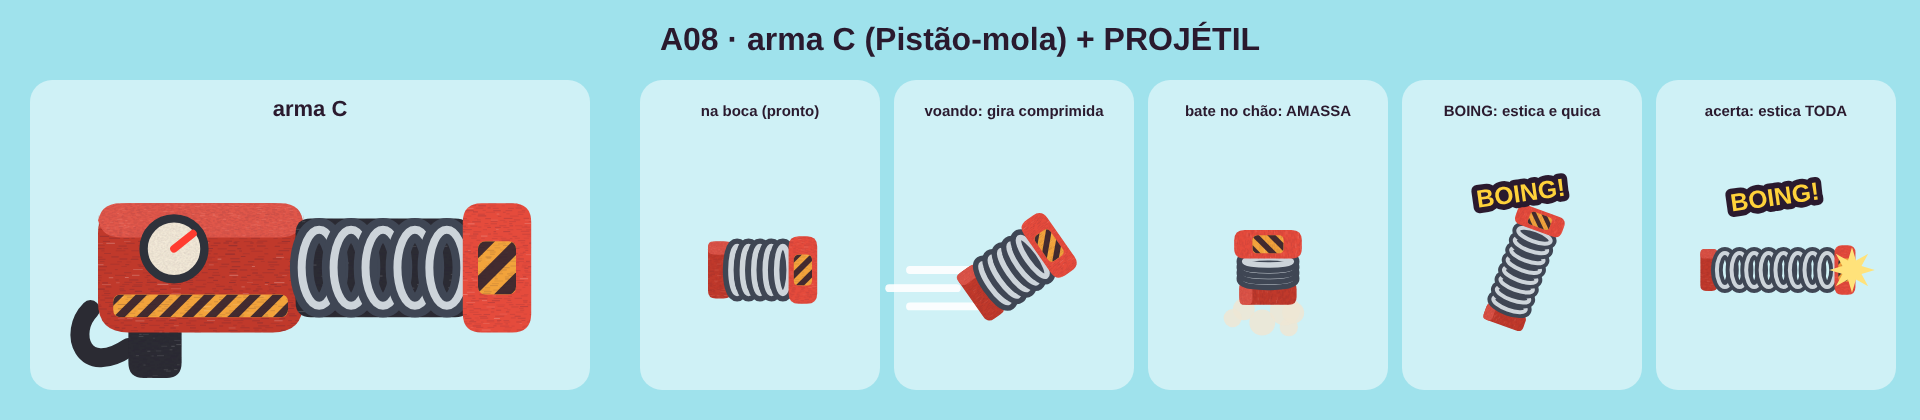
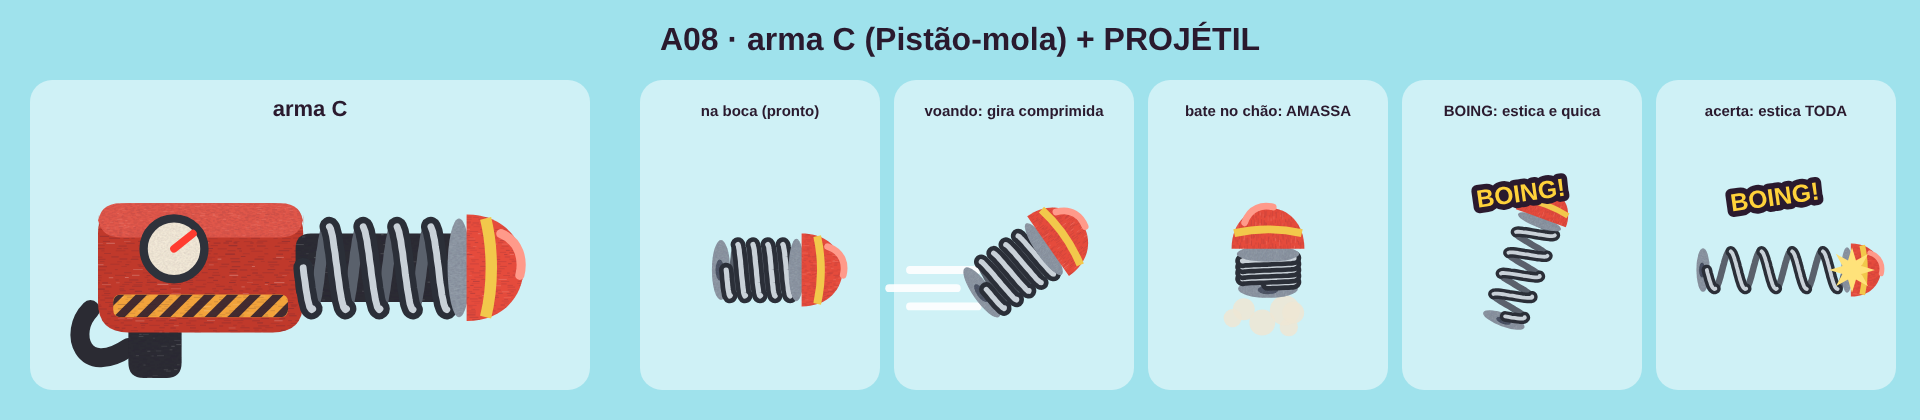
A08: mola em espiral contínua com arruela e batente de borracha; arma C com a mesma mola e o batente na boca
Claude-Session: https://claude.ai/code/session_017desNJLabnbh98EwrZ9vQj

diff --git a/art/src/robos/eng_ataques.py b/art/src/robos/eng_ataques.py
@@ -456,13 +456,44 @@ def canhao_molas_jogo():
     return o
 
 
+def helice(x0, x1, ry, voltas, w=3.4):
+    """Mola de verdade: UM fio em espiral (hélice vista de lado), desenhado por meias-voltas contínuas: as de trás
+    escuras e finas, as da frente com contorno escuro e brilho de aço."""
+    n = max(60, int(voltas * 36))
+    pts = [(x0 + (x1 - x0) * i / n, ry * math.sin(i / n * voltas * 2 * math.pi), math.cos(i / n * voltas * 2 * math.pi)) for i in range(n + 1)]
+    runs, cur, front = [], [pts[0]], pts[0][2] >= 0
+    for p_ in pts[1:]:
+        f = p_[2] >= 0
+        cur.append(p_)
+        if f != front:
+            runs.append((front, cur))
+            cur, front = [p_], f
+    runs.append((front, cur))
+    tras, frente = "", ""
+    for f, run in runs:
+        d = "M" + " L".join(f"{x:.1f},{y:.1f}" for x, y, _ in run)
+        if f:
+            frente += f'<path d="{d}" stroke="#2b2f38" stroke-width="{w + 2.2:.1f}" fill="none" stroke-linecap="round" stroke-linejoin="round"/>'
+            frente += f'<path d="{d}" stroke="#c9d1d8" stroke-width="{w * 0.6:.1f}" fill="none" stroke-linecap="round" stroke-linejoin="round"/>'
+        else:
+            tras += f'<path d="{d}" stroke="#5a616c" stroke-width="{w:.1f}" fill="none" stroke-linecap="round" stroke-linejoin="round"/>'
+    return tras, frente
+
+
 def mola(x, y, ang=0.0, compr=1.0, s=1.0):
-    """Projétil do A08 (combina com a arma C · Pistão-mola): pilha de molas grossas presa entre a BASE vermelha de trás e o
-    TAMPÃO vermelho com faixa de perigo. compr: 1 = comprimida (no voo), >1 = esticada (BOING), <1 = amassada."""
-    L = 22.0 * compr
-    o = R(-L / 2 - 9, -11, 9, 22, 3, "#c0392b", k=0.3) + R(-L / 2 - 9, -11, 9, 5, 2, "#e0574a", k=0.1)   # base
-    o += _espiras(-L / 2, L / 2, 0, 9, max(4, int(5 * min(compr, 1.6))))
-    o += R(L / 2, -13, 11, 26, 4, "#e54b3c", k=0.3) + ab.cb.faixa(L / 2 + 2, -6, 7, 12, n=2)               # tampão
+    """Projétil do A08 (combina com a arma C): mola de aço em espiral; atrás uma ARRUELA redonda; na frente um BATENTE de
+    borracha vermelho em cúpula com anel de perigo. compr: 1 = comprimida (no voo), >1 = esticada (BOING), <1 = amassada."""
+    L = 26.0 * compr
+    voltas = 4.5
+    tras, frente = helice(-L / 2, L / 2, 10, voltas)
+    o = tras
+    o += E(-L / 2 - 2, 0, 3.5, 11.5, "#8e98a4", k=0.15) + E(-L / 2 - 2.5, 0, 1.6, 4, "#5a6372", k=0.05)    # arruela de trás
+    o += frente
+    # batente: arruela + cúpula de borracha vermelha grande, com uma faixa amarela fina e brilho
+    o += E(L / 2 + 1, 0, 3, 12, "#8e98a4", k=0.15)
+    o += S(f"M{L / 2 + 3},-14 C{L / 2 + 24},-14 {L / 2 + 24},14 {L / 2 + 3},14 Z", "#e54b3c", (L / 2 + 2, -15, L / 2 + 25, 15), k=0.4)
+    o += f'<path d="M{L / 2 + 9},-13 C{L / 2 + 11},-4 {L / 2 + 11},4 {L / 2 + 9},13" stroke="#f2c84b" stroke-width="3" fill="none"/>'
+    o += f'<path d="M{L / 2 + 13},-9 C{L / 2 + 19},-7 {L / 2 + 20},-2 {L / 2 + 19},2" stroke="#ff9a8a" stroke-width="2.6" fill="none" stroke-linecap="round"/>'
     return f'<g transform="translate({x},{y}) rotate({ang}) scale({s})">{o}</g>'
 
 
@@ -659,9 +690,13 @@ def molas_c():
     o += R(18, 38, 14, 22, 4, "#2b2b33", k=0.3)
     o += R(10, 14, 54, 34, 8, "#c0392b", k=0.5) + R(10, 14, 54, 9, 6, "#e0574a", k=0.2) + ab.cb.faixa(14, 38, 46, 6, n=6)
     o += E(30, 26, 8, 8, "#f3ead8", k=0.1) + f'<circle cx="30" cy="26" r="8" fill="none" stroke="{DARK}" stroke-width="2.2"/><path d="M30,26 l5,-4" stroke="{EYE}" stroke-width="2" stroke-linecap="round"/>'
-    o += R(62, 18, 46, 26, 4, "#2b2b33", k=0.4)
-    o += _espiras(64, 106, 31, 10, 5)
-    o += R(106, 14, 18, 34, 5, "#e54b3c", k=0.4) + ab.cb.faixa(110, 24, 10, 14, n=3)
+    o += R(62, 22, 46, 18, 4, "#2b2b33", k=0.4)
+    tr_, fr_ = helice(64, 104, 11, 4.5, 3.0)
+    o += f'<g transform="translate(0,31)">{tr_}{fr_}</g>'
+    o += E(105, 31, 3, 13, "#8e98a4", k=0.15)   # o projétil pronto na boca: batente de borracha
+    o += S("M107,17 C127,17 127,45 107,45 Z", "#e54b3c", (106, 16, 127, 46), k=0.4)
+    o += f'<path d="M112,18 C114,26 114,36 112,44" stroke="#f2c84b" stroke-width="3" fill="none"/>'
+    o += f'<path d="M116,22 C121,24 122,29 121,33" stroke="#ff9a8a" stroke-width="2.4" fill="none" stroke-linecap="round"/>'
     return o
 
 
